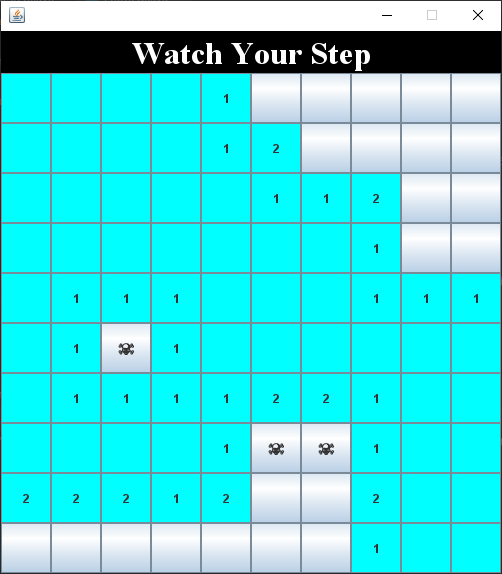
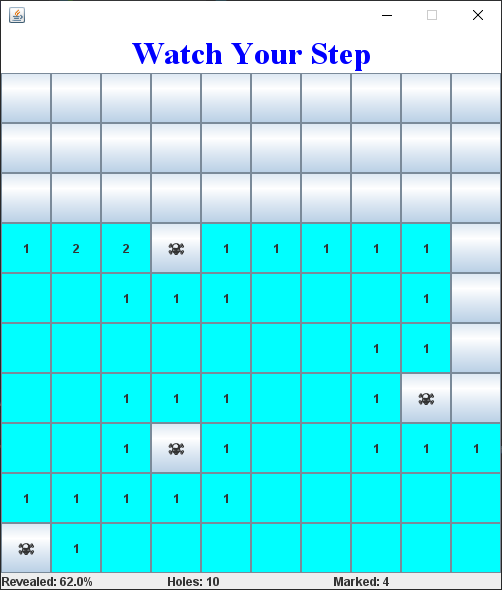
small changes
- added JFrame tag
- updated WYS image
- updated header styles

diff --git a/src/app/projects/projects.service.ts b/src/app/projects/projects.service.ts
@@ -8,23 +8,23 @@ export class ProjectsService {
     new Project(
       0,
       'Java DIY Games',
-      ['Java'],
+      ['Java', 'JFrame'],
       'This repository contains a number of Java JFrame games I have created as a learning experience.<br><br>' +
       'The notable inclusions are:<br>' +
+      '<h4>Watch Your Step</h4>' +
+      '<p>Watch Your Step is a Minesweeper clone which allows you to try to expose all of the squares without ' +
+      'falling into a hole. Suspected holes can be marked with a skull and crossbones.</p>' +
       '<h4>Framed</h4>' +
       '<p>Framed is a simple game where you must turn on all of the lights in a 3x3 grid to win. However, switching ' +
       'a light will also affect the lights directly above, below, or to the side of the light that was switched.</p>' +
       '<h4>Guess My Color</h4>' +
       '<p>With Guess My Color, the aim of the game is to turn your color cube to the color of the cube next to it. ' +
-      'This can be done by adding or removing the colors red, green and blue until you find a match.</p>' +
-      '<h4>Watch Your Step</h4>' +
-      '<p>Watch Your Step is a Minesweeper clone which allows you to try to expose all of the squares without ' +
-      'falling into a hole. Suspected holes can be marked with a skull and crossbones.</p>'
+      'This can be done by adding or removing the colors red, green and blue until you find a match.</p>'
       ,
       [
+        '/assets/images/DIYGames/WatchYourStep.png',
         '/assets/images/DIYGames/Framed.png',
-        '/assets/images/DIYGames/GuessMyColor.png',
-        '/assets/images/DIYGames/WatchYourStep.png'
+        '/assets/images/DIYGames/GuessMyColor.png'
       ],
       'github.com/ndeely/DIYGames'
     ),

diff --git a/src/styles.css b/src/styles.css
@@ -1,5 +1,10 @@
-h1, h2, h3 {
+h1, h2, h3, h4, h5 {
   text-align:center;
+}
+
+h1, h4 {
+  text-decoration: underline;
+  color: #005bea;
 }
 
 a {
@@ -16,7 +21,7 @@ a {
 }
 
 #body .container .row p {
-  font-size:20px;
+  font-size:16px;
   color:#000;
   text-align: center;
 }
